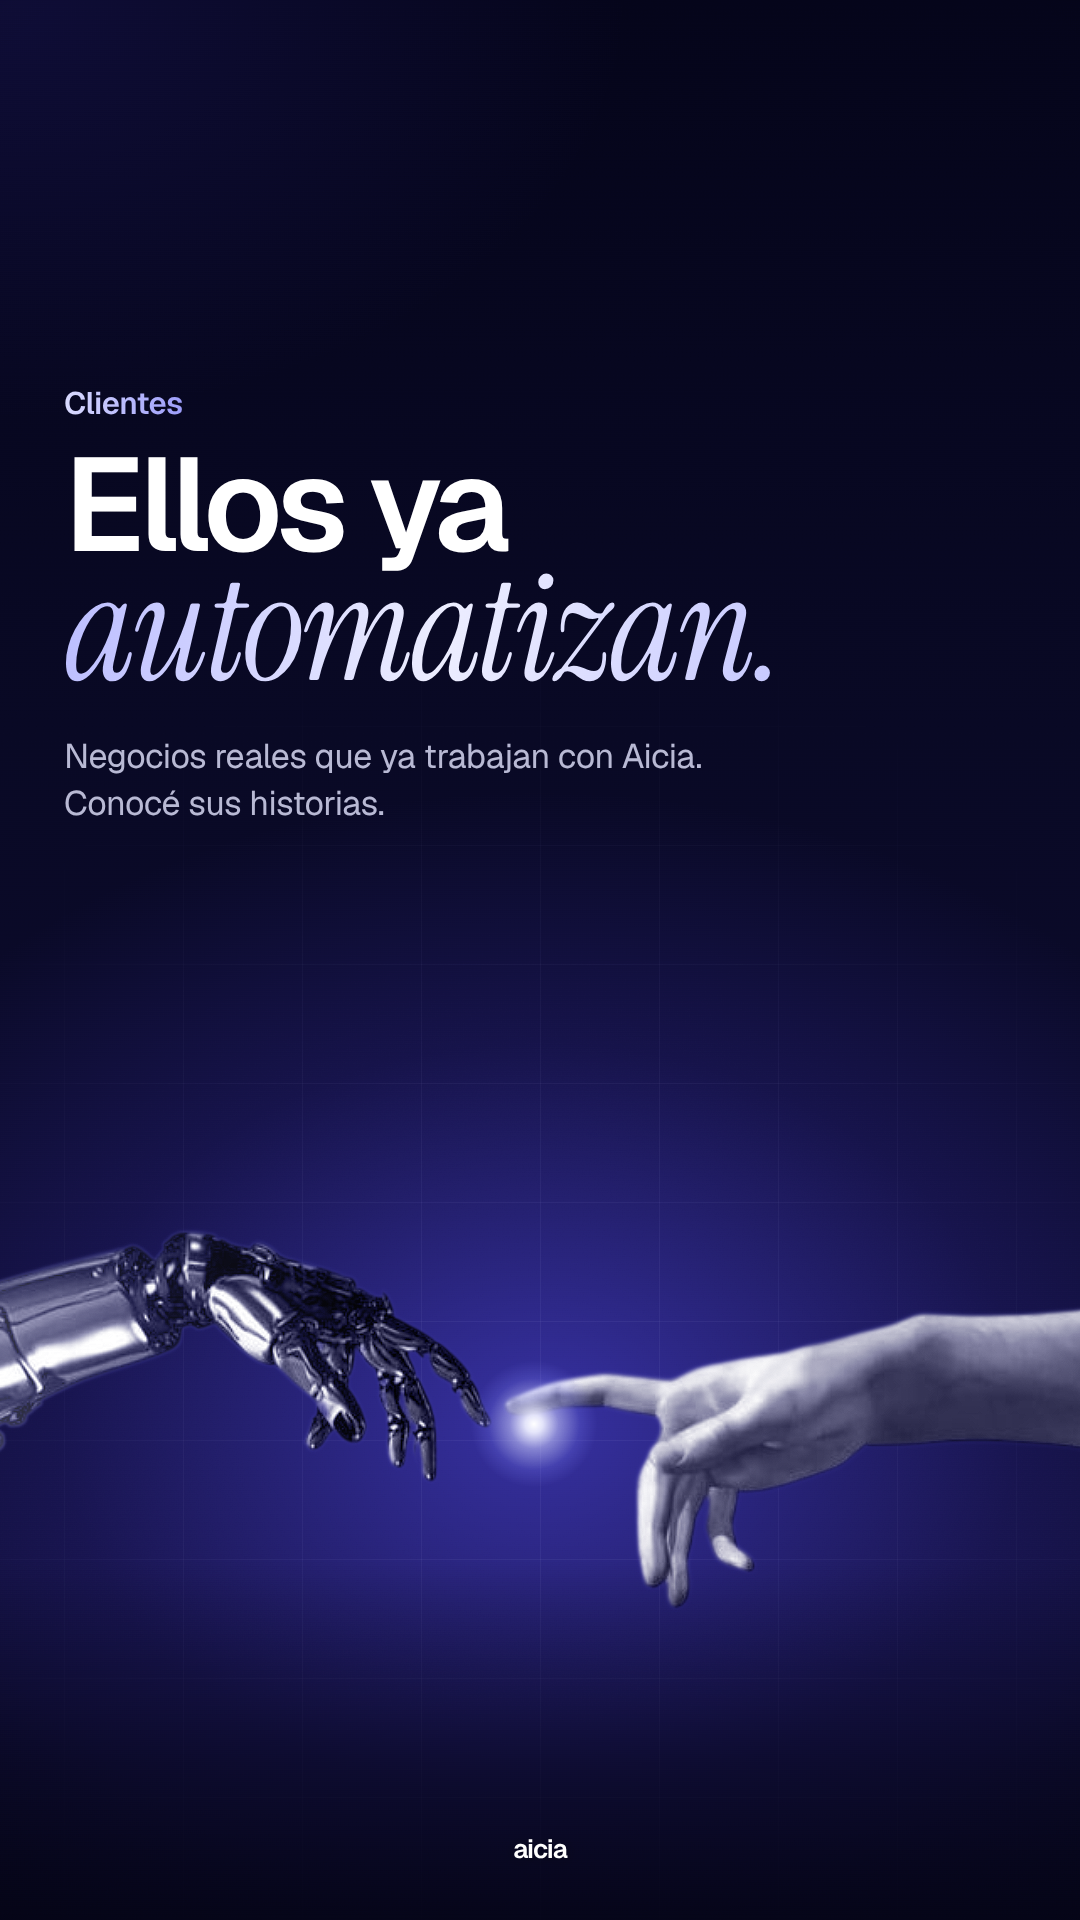
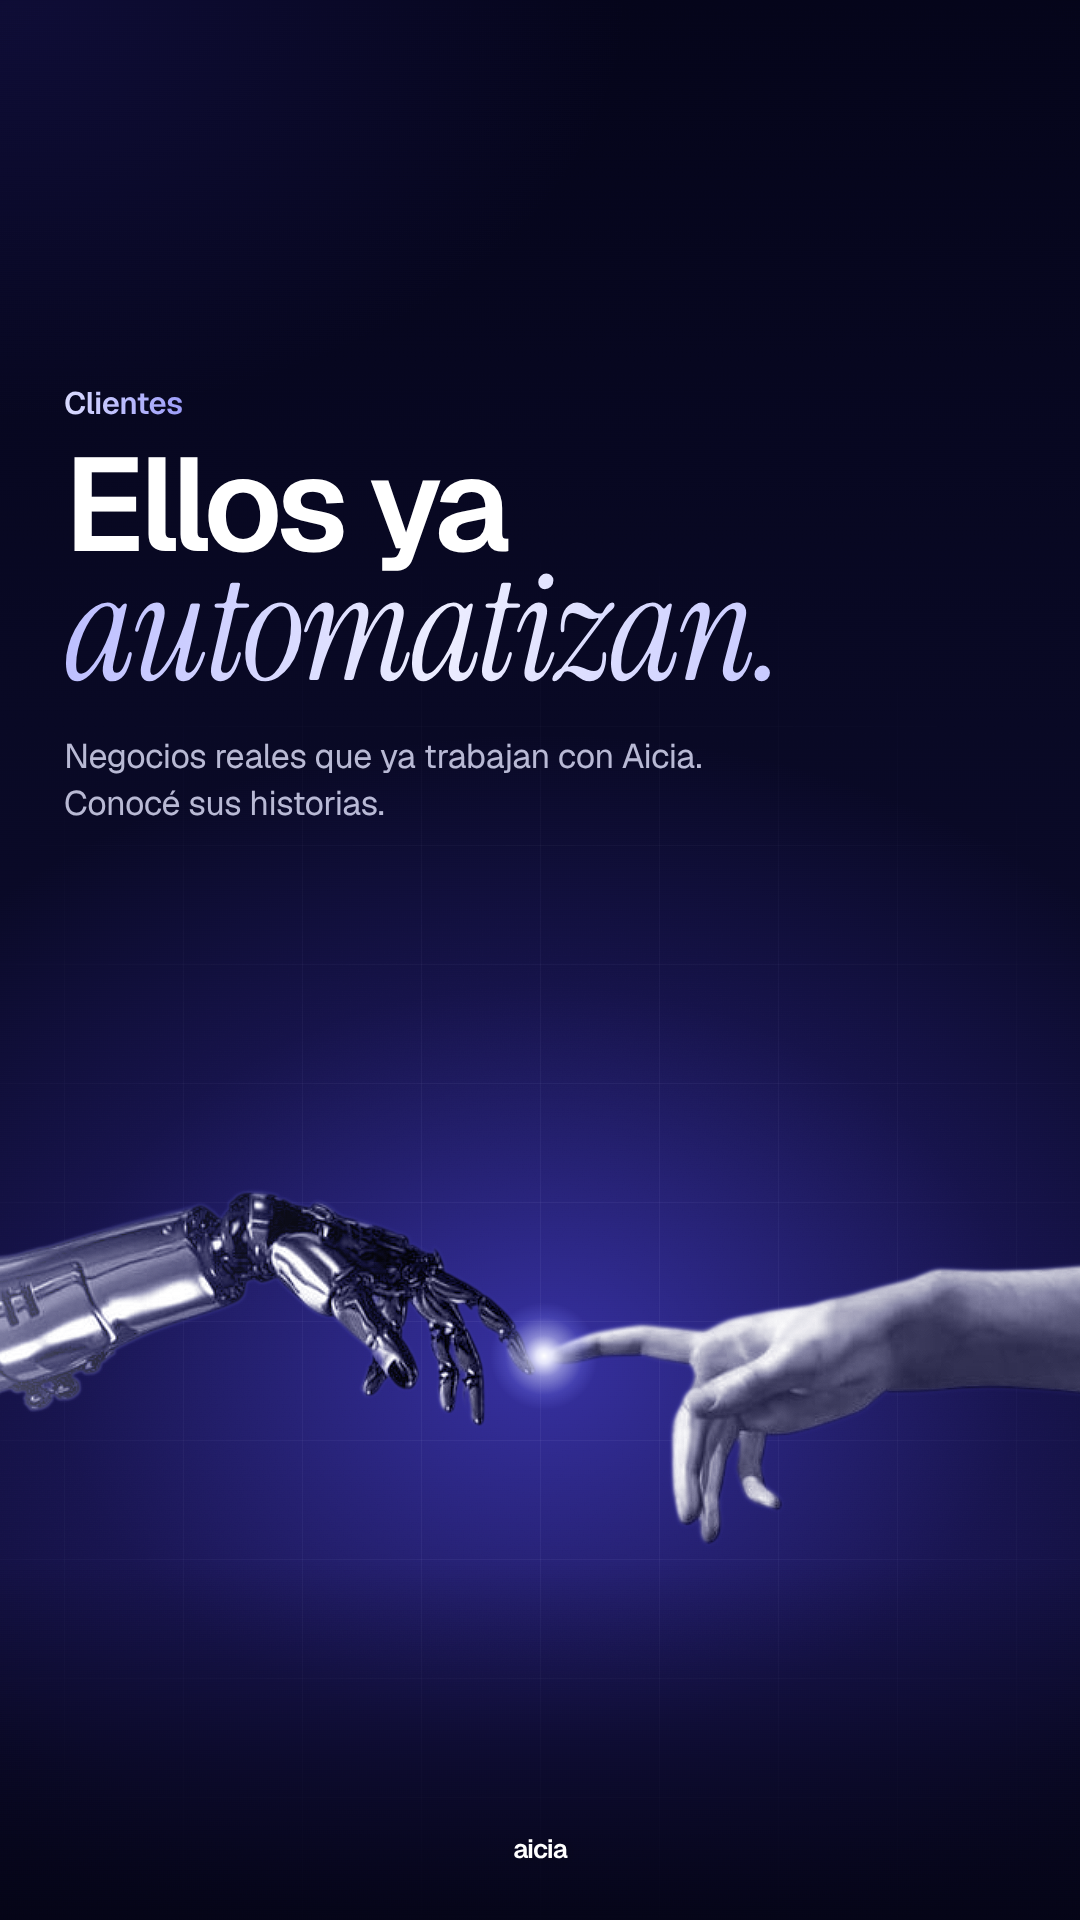
Clientes · portada: manos centradas y chispa entre los dedos
El punto de contacto queda en el eje central de la historia, alineado
con la firma; manos un poco más chicas (más nítidas) y más arriba para
equilibrar con el texto, y luz de fondo acompañando.

Claude-Session: https://claude.ai/code/session_01SBSshHAET78NiDLxszLW9R

Changed region(s): [[0.0, 0.625, 1.0, 0.8438]]

diff --git a/historias/clientes-proyectos/historias.html b/historias/clientes-proyectos/historias.html
@@ -218,7 +218,7 @@ svg.app .gl .f{fill:#fff;stroke:none}
 /* =========================================================
    Clientes y Proyectos
    ========================================================= */
-.c1{--gx:50%;--gy:74%;--gw:1150px;--gh:900px}
+.c1{--gx:50%;--gy:71%;--gw:1150px;--gh:900px}
 .p1{--gx:58%;--gy:76%;--gw:1100px;--gh:900px}
 .card{--gx:50%;--gy:44%;--gw:900px;--gh:820px}
 .c1 .eyebrow,.p1 .eyebrow{left:var(--m);top:384px}
@@ -304,8 +304,8 @@ svg.app .gl .f{fill:#fff;stroke:none}
 <!-- ======================= CLIENTES · PORTADA ======================= -->
 <section class="story c1" data-file="aicia-clientes-01-portada.png">
   <div class="stage"></div><div class="grid"></div>
-  <div class="subj" data-src="assets/manos-robot-humano-bn.png" data-rim="left" style="left:-140px;top:1064px;width:1240px;--tint:.24;--rim:.5"></div>
-  <div class="spark" style="left:446px;top:1336px;width:176px;height:176px"></div>
+  <div class="subj" data-src="assets/manos-robot-humano-bn.png" data-rim="left" style="left:-55px;top:1035px;width:1160px;--tint:.24;--rim:.5"></div>
+  <div class="spark" style="left:469px;top:1281px;width:150px;height:150px"></div>
   <div class="eyebrow tx">Clientes</div>
   <h1 class="title tx">Ellos ya<br><span class="serif">automatizan.</span></h1>
   <p class="lede tx">Negocios reales que ya trabajan con Aicia.<br>Conocé sus historias.</p>
